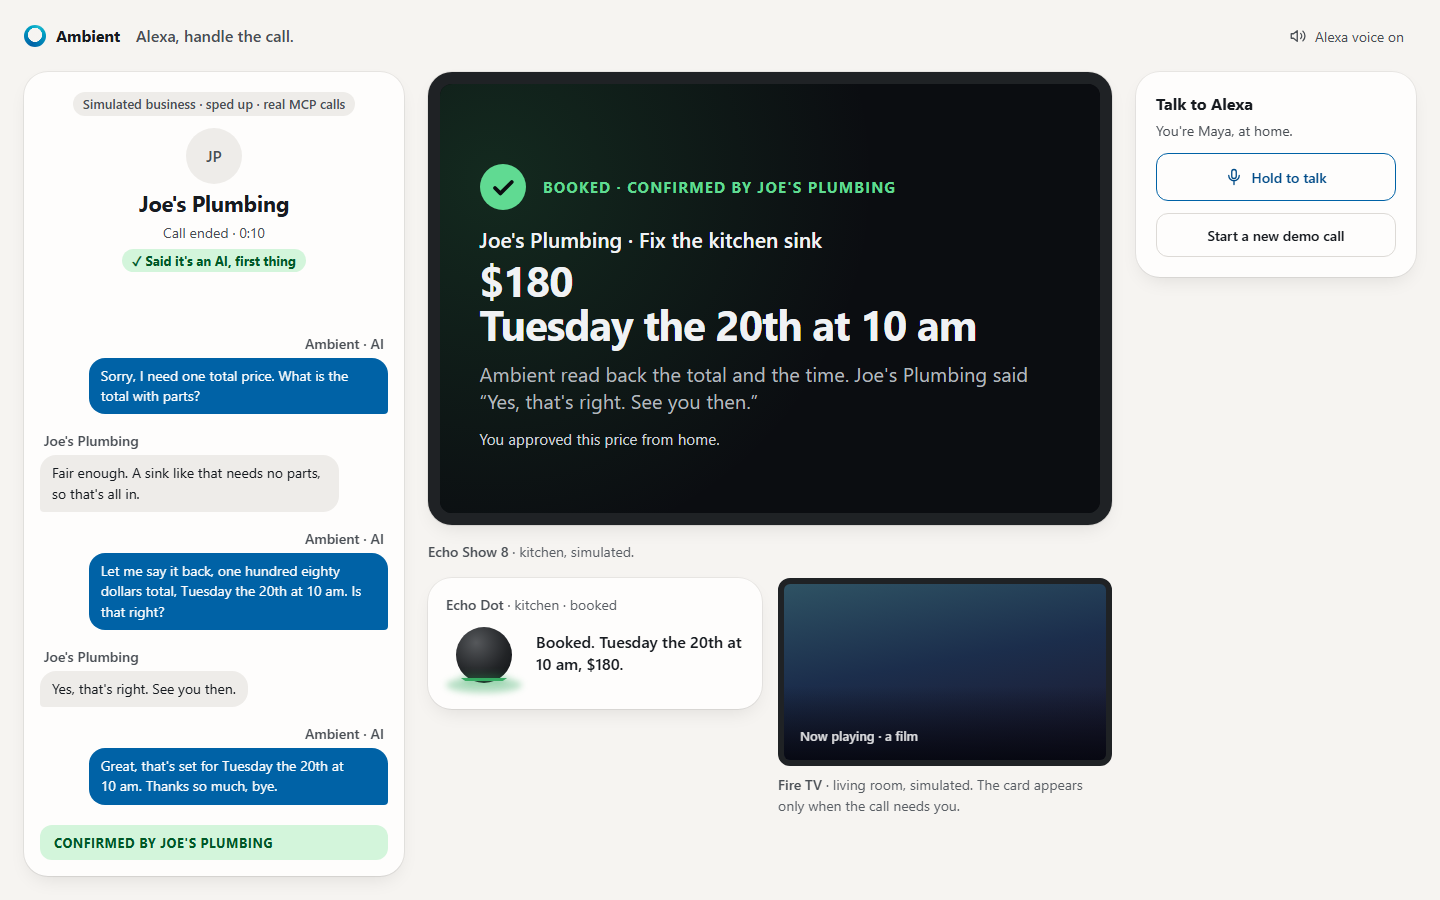
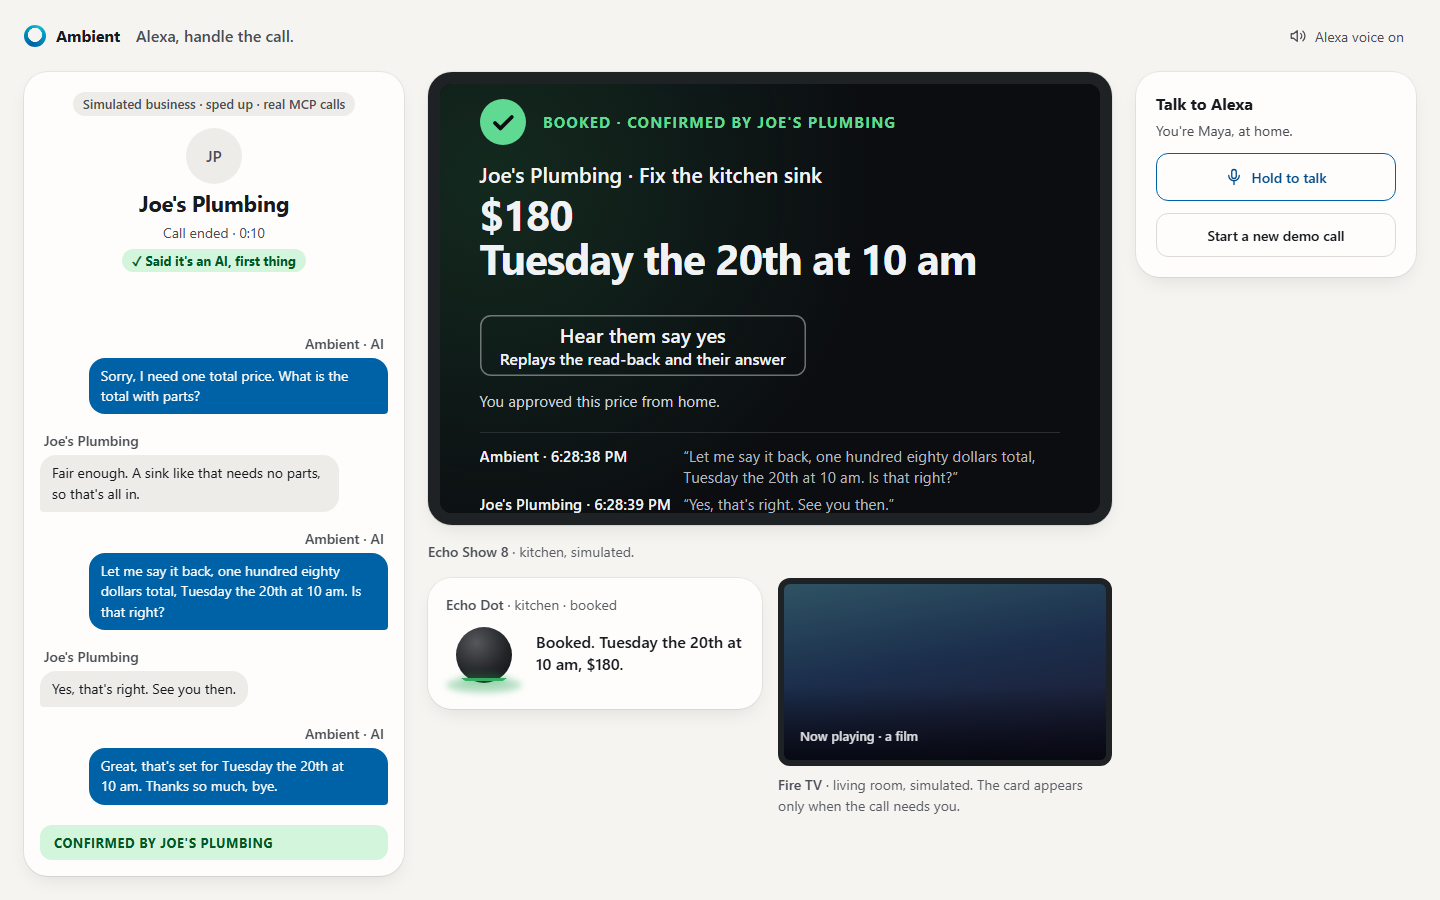
Keep proof of yes with every booking and show it on the card
When the reducer accepts a clean yes, the confirmed outcome now carries the full read-back the business heard and the reply that booked it, each with its time. The 4,000-call honesty test checks that the proof is exactly that pair; it first caught that a talked-over re-ask was being stored instead of the full read-back. The booked card quotes both lines with their times, and "Hear them say yes" replays them in the simulator (a live call has no recording yet). After a call-around booking the card lists the passed quotes instead of the board.

Changed region(s): [[0.3125, 0.0933, 0.7188, 0.5911]]

diff --git a/src/task-view.ts b/src/task-view.ts
@@ -73,11 +73,10 @@ body.booked .check path{animation:draw 600ms 180ms cubic-bezier(0.2,0,0,1) both}
 .tile[data-state="booking"],.tile[data-state="booked"]{box-shadow:inset 0 0 0 1.5px var(--done);background:oklch(0.26 0.05 155)}
 .tile[data-state="booking"] .state,.tile[data-state="booked"] .state{color:var(--done)}
 .tile[data-state="released"],.tile[data-state="ended"]{opacity:.5}
-body.multi[data-state="done"]:not([data-device="tv"]){justify-content:flex-start;gap:1.4vw}
-body.multi[data-state="done"] .stake{font-size:1.55em}
-body.multi[data-state="done"] .check{width:1.6em;height:1.6em}
-body.multi[data-state="done"] .tile{padding:.5em .7em .55em}
-body.multi[data-state="done"] .tile .price{font-size:1.2em}
+body.multi[data-state="done"] .board{display:none}
+body.proof:not([data-device="tv"]){justify-content:flex-start}
+body.proof .foot{margin-top:.4em;margin-bottom:0}
+body.proof .line span{-webkit-line-clamp:3}
 .tile[data-state="released"] .price{text-decoration:line-through;text-decoration-thickness:2px}
 .tile[data-state="released"] .state,.tile[data-state="ended"] .state{color:var(--dim)}
 .actions{display:flex;gap:.5em;flex-wrap:wrap;align-items:center;margin-top:.3em}
@@ -123,7 +122,6 @@ body[data-device="tv"] .tvline{display:block}
  body:not([data-device="tv"]) .hint{font-size:13px}
  body:not([data-device="tv"]) .foot{grid-template-columns:1fr;font-size:14px;gap:2px}
  body:not([data-device="tv"]) .board{grid-template-columns:1fr;gap:6px}
- body.multi[data-state="done"]:not([data-device="tv"]) .board{display:none}
  body:not([data-device="tv"]) .tile{grid-template-columns:1fr auto;grid-template-areas:"name price" "state slot";align-items:baseline;padding:10px 12px}
  body:not([data-device="tv"]) .tile b{grid-area:name;font-size:15px}
  body:not([data-device="tv"]) .tile .price{grid-area:price;font-size:20px}
@@ -181,7 +179,10 @@ function offers(ap,said){const limit=ap.limitUsd,amount=ap.amountUsd;if(limit===
  return said.some(l=>l.who!=="Ambient"&&l.text.trim().toLowerCase()==="offer "+limit)?[]:[limit];}
 function dated(when){return /\\b(?:jan|feb|mar|apr|may|jun|jul|aug|sep|oct|nov|dec)[a-z]*\\b|\\d{1,2}\\/\\d{1,2}|\\bthe (?:\\d{1,2}(?:st|nd|rd|th)|(?:twenty|thirty)?-? ?(?:first|second|third|fourth|fifth|sixth|seventh|eighth|ninth)|tenth|eleventh|twelfth|thirteenth|fourteenth|fifteenth|sixteenth|seventeenth|eighteenth|nineteenth|twentieth|thirtieth)\\b/i.test(when||"");}
 function buttons(list){const box=$("actions");box.innerHTML="";
- for(const b of list){const el=document.createElement("button");el.type="button";el.textContent=b.label;if(b.note){const n=document.createElement("small");n.textContent=b.note;el.appendChild(n);}if(b.kind)el.className=b.kind;el.onclick=()=>{el.disabled=true;b.run();};box.appendChild(el);}}
+ for(const b of list){const el=document.createElement("button");el.type="button";el.textContent=b.label;if(b.note){const n=document.createElement("small");n.textContent=b.note;el.appendChild(n);}if(b.kind)el.className=b.kind;el.onclick=()=>{if(!b.keep)el.disabled=true;b.run();};box.appendChild(el);}}
+const stamp=s=>{const d=new Date(s);return Number.isNaN(d.getTime())?"":d.toLocaleTimeString("en-US",{hour:"numeric",minute:"2-digit",second:"2-digit"});};
+function replay(p){const voice=globalThis.speechSynthesis;if(!voice||typeof SpeechSynthesisUtterance!=="function")return;voice.cancel();
+ const them=new SpeechSynthesisUtterance(p.yes);them.pitch=.75;them.rate=1.05;voice.speak(new SpeechSynthesisUtterance(p.readBack));voice.speak(them);}
 function foot(lines){const box=$("foot");
  box.innerHTML=lines.map(l=>'<div class="line"><b>'+esc(l.who)+'</b><span>'+l.text+'</span></div>').join("");}
 function ownerSaid(line,biz){if(!line)return "";const decided=/^(Approved|Declined): /.exec(line.text);if(decided)return "You "+decided[1].toLowerCase()+" it.";
@@ -201,7 +202,7 @@ function render(d){
  const said=speakers(steps,biz),owner=said.filter(l=>l.who!=="Ambient"&&l.who!==biz&&!names.includes(l.who)).at(-1),what=errand(t.instruction);
  const theirs=said.filter(l=>l.who===biz).at(-1);
  const kind=ap?"needs":o?"done":live?"live":"idle";
- document.body.classList.remove("booked","open","arrive");document.body.classList.toggle("multi",!!list);
+ document.body.classList.remove("booked","open","arrive","proof");document.body.classList.toggle("multi",!!list);
  if(kind==="needs"&&shown!=="needs"){void document.body.offsetWidth;document.body.classList.add("arrive");}
  shown=kind;document.body.dataset.state=kind;
  over.textContent="";flag.textContent="";flag.className="flag";hint.textContent="";tv.textContent="";$("what").textContent="";$("clock").textContent="";buttons([]);foot([]);board(list);
@@ -237,7 +238,10 @@ function render(d){
   const readBack=said.some(l=>l.who==="Ambient"&&/\\bIs that right\\?$/.test(l.text));
   sub.textContent=ok?(theirs?(readBack?"Ambient read back the total and the time. "+biz+" said \\u201c"+theirs.text+"\\u201d":"In their words: \\u201c"+theirs.text+"\\u201d"):"Booked with "+biz+"."):t.status==="cancelled"?"You ended the call before "+biz+" confirmed.":cap(o.reason).replace(/\\.+$/,"")+".";
   const mine=said.filter(l=>l.who!=="Ambient"&&l.who!==biz);
-  if(ok)hint.textContent=mine.some(l=>/^Approved: /.test(l.text))?"You approved this price from home.":mine.some(l=>/^offer\\b/i.test(l.text))?"You offered this price from home.":list?"Cheapest of "+list.filter(b=>b.amountUsd!==undefined).length+" quotes"+(limitOf(t.instruction)?", within your "+limitOf(t.instruction).slice(6)+" limit.":"."):limitOf(t.instruction)?"Within your "+limitOf(t.instruction).slice(6)+" limit.":"";
+  if(ok)hint.textContent=mine.some(l=>/^Approved: /.test(l.text))?"You approved this price from home.":mine.some(l=>/^offer\\b/i.test(l.text))?"You offered this price from home.":list?"Cheapest of "+list.filter(b=>b.amountUsd!==undefined).length+" quotes"+(list.some(b=>b.state==="released")?" ("+list.filter(b=>b.state==="released"&&b.amountUsd!==undefined).map(b=>usd(b.amountUsd)+" passed").join(", ")+")":"")+(limitOf(t.instruction)?", within your "+limitOf(t.instruction).slice(6)+" limit.":"."):limitOf(t.instruction)?"Within your "+limitOf(t.instruction).slice(6)+" limit.":"";
+  if(ok&&o.proof){sub.textContent="";document.body.classList.add("proof");
+   foot([{who:"Ambient \u00b7 "+stamp(o.proof.readBackAt),text:"\u201c"+esc(o.proof.readBack)+"\u201d"},{who:biz+" \u00b7 "+stamp(o.proof.yesAt),text:"\u201c"+esc(o.proof.yes)+"\u201d"}]);
+   buttons([{label:"Hear them say yes",note:"Replays the read-back and their answer",kind:"offer",keep:true,run:()=>replay(o.proof)}]);}
   if(!ok){if(theirs)foot([{who:"Last from "+biz,text:"\\u201c"+esc(theirs.text)+"\\u201d"}]);
    buttons([{label:"Call "+biz+" again",kind:"call",run:()=>act("delegate",{task:DEMO,newConversation:true})}]);}}
  else if(live&&list){chip.className="chip";const quoted=list.filter(b=>b.amountUsd!==undefined).length;

diff --git a/test/task-view.test.ts b/test/task-view.test.ts
@@ -23,7 +23,7 @@ function card() {
   const context = vm.createContext({ document, parent: { postMessage() {} }, addEventListener() {}, setTimeout() {}, setInterval() { return 0; }, clearInterval() {}, Date, Number, String, Math, Map, Intl });
   vm.runInContext(script, context);
   const render = (data: unknown) => (context as unknown as { render(data: unknown): void }).render(data);
-  return { render, text: (id: string) => document.getElementById(id).textContent, buttons: () => document.getElementById("actions").children.map(child => child.textContent) };
+  return { render, text: (id: string) => document.getElementById(id).textContent, html: (id: string) => document.getElementById(id).innerHTML, buttons: () => document.getElementById("actions").children.map(child => child.textContent) };
 }
 
 const board = (states: Array<[string, string, number?, string?]>) => states.map(([business, state, amountUsd, when]) => ({ business, state, ...(amountUsd !== undefined ? { amountUsd } : {}), ...(when ? { when } : {}) }));
@@ -61,6 +61,23 @@ describe("the Echo Show card", () => {
     });
     expect(view.text("chip")).toBe("Booked · confirmed by Drain Bros");
     expect(view.text("sub")).toBe("Ambient read back the total and the time. Drain Bros said “Yes, that's right.”");
-    expect(view.text("hint")).toBe("Cheapest of 3 quotes, within your $150 limit.");
+    expect(view.text("hint")).toBe("Cheapest of 3 quotes ($140 passed, $160 passed), within your $150 limit.");
+  });
+
+  it("quotes the read-back and the yes that booked it, with their times", () => {
+    const view = card();
+    view.render({
+      task: {
+        status: "completed", instruction: "Call Joe's Plumbing and book a visit to fix the kitchen sink, under 150", subject: "Joe's Plumbing", steps: [],
+        outcome: {
+          kind: "confirmed", summary: "Joe's Plumbing confirmed Tuesday the 20th at 10 am for one hundred sixty dollars.", amountUsd: 160, when: "Tuesday the 20th at 10 am",
+          proof: { readBack: "Let me say it back, one hundred sixty dollars total, Tuesday the 20th at 10 am. Is that right?", readBackAt: "2026-10-19T17:04:12.000Z", yes: "Yes, that's right. See you then.", yesAt: "2026-10-19T17:04:14.000Z" }
+        }
+      }
+    });
+    expect(view.text("sub")).toBe("");
+    expect(view.html("foot")).toContain("“Yes, that's right. See you then.”");
+    expect(view.html("foot")).toMatch(/Joe&#39;s Plumbing · \d{1,2}:04:14 [AP]M|Joe's Plumbing · \d{1,2}:04:14 [AP]M/);
+    expect(view.buttons()).toEqual(["Hear them say yes"]);
   });
 });

diff --git a/test/call-honesty.test.ts b/test/call-honesty.test.ts
@@ -144,6 +144,8 @@ describe("honesty over generated calls", () => {
       if (readBack && chargedIn(readBack.text).some(value => value !== amount)) fail(`booked ${amount} after a read-back that named another price`);
       if (readBack && amountsIn(state.phase.outcome.summary).some(value => !amountsIn(readBack.text).includes(value))) fail(`reported "${state.phase.outcome.summary}", which the read-back did not say`);
       if (replies.at(-1)?.clean !== true || reply?.text !== replies.at(-1)?.text) fail("booked without a clean yes");
+      const proof = state.phase.outcome.proof;
+      if (!proof || proof.readBack !== readBack?.text || proof.readBackAt !== readBack.at || proof.yes !== reply?.text || proof.yesAt !== reply.at) fail("the proof of yes is not the read-back and the reply that booked it");
       const when = state.phase.outcome.when;
       if (when && /\d{3,}|deposit|plus|card/i.test(when.normalize("NFKC"))) fail(`booked with "${when}", which carries more than a time`);
       const allowed = approved.some(grant => grant.amount === amount && (grant.when === undefined || grant.when === when));

diff --git a/src/calls/session.ts b/src/calls/session.ts
@@ -250,7 +250,10 @@ function granted(state: CallState, amountUsd: number | undefined, when: string |
 function answerReadBack(state: CallState, readBack: ReadBack, reply: string, now: string): Transition | undefined {
   const lastAgent = state.turns.findLast(turn => turn.speaker === "agent");
   if (lastAgent?.text !== readBack.line) return undefined;
-  return agreesTo(reply, readBack.terms, readBack.outcome.amountUsd, readBack.outcome.when, readBack.line) ? close({ ...state, readBack: undefined }, readBack.outcome, now) : undefined;
+  if (!agreesTo(reply, readBack.terms, readBack.outcome.amountUsd, readBack.outcome.when, readBack.line)) return undefined;
+  const full = state.turns.findLast(turn => turn.speaker === "agent" && turn.text.endsWith(`${readBack.terms}. Is that right?`)) ?? lastAgent;
+  const proof = { readBack: full.text, readBackAt: full.at, yes: reply, yesAt: now };
+  return close({ ...state, readBack: undefined }, { ...readBack.outcome, proof }, now);
 }
 
 function price(amount: number): string {

diff --git a/test/call-session.test.ts b/test/call-session.test.ts
@@ -1028,3 +1028,21 @@ describe("chosen by the errand", () => {
     expect(play([[{ kind: "chosen", requestId }, 3000]], start.state, comparing).effects).toEqual([]);
   });
 });
+
+describe("proof of yes", () => {
+  it("keeps the exact read-back and the yes that booked it, with their times", () => {
+    const { state } = play([answered, [heard("I can do it for 140"), 1000], [confirm(140, "Tuesday the 20th at 10 am", "Tuesday the 20th at 10 am"), 2000], [{ kind: "played", text: "" }, 3000], [heard("Yes, that's right."), 4000]]);
+    expect(state.phase).toMatchObject({
+      kind: "ended",
+      outcome: {
+        kind: "confirmed",
+        proof: {
+          readBack: "Okay, so just to confirm, one hundred forty dollars total, Tuesday the 20th at 10 am. Is that right?",
+          readBackAt: at(2000),
+          yes: "Yes, that's right.",
+          yesAt: at(4000)
+        }
+      }
+    });
+  });
+});

diff --git a/src/calls/types.ts b/src/calls/types.ts
@@ -11,11 +11,13 @@ export type CallBrief = {
   facts: string[];
 };
 
+export type ProofOfYes = { readBack: string; readBackAt: string; yes: string; yesAt: string };
+
 export type Speaker = "agent" | "business" | "owner";
 export type CallTurn = { speaker: Speaker; text: string; at: string };
 
 export type CallOutcome =
-  | { kind: "confirmed"; summary: string; amountUsd?: number; when?: string }
+  | { kind: "confirmed"; summary: string; amountUsd?: number; when?: string; proof?: ProofOfYes }
   | { kind: "declined"; reason: string }
   | { kind: "no_deal"; reason: string }
   | { kind: "unconfirmed"; reason: string };

diff --git a/web/sim/index.html b/web/sim/index.html
@@ -191,7 +191,7 @@ body[data-phase="needs"] .tv .devlabel{visibility:hidden}
   .room{grid-template-columns:1fr}
   .show8{min-height:560px;aspect-ratio:auto}
   body[data-phase="ended"] .show8{min-height:460px}
-  body[data-ending="booked"] .show8{min-height:360px}
+  body[data-ending="booked"] .show8{min-height:520px}
   .kitchen{min-height:auto}
 }
 @media (max-width:480px){
